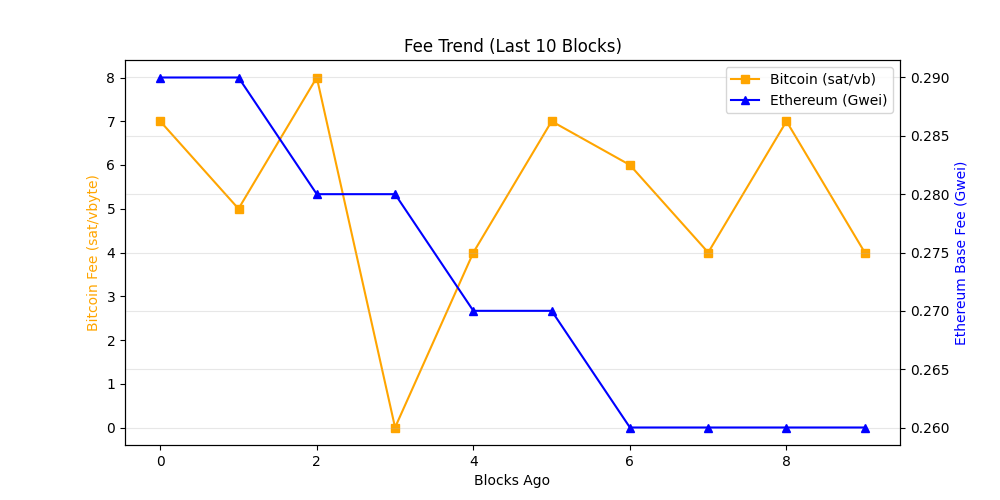
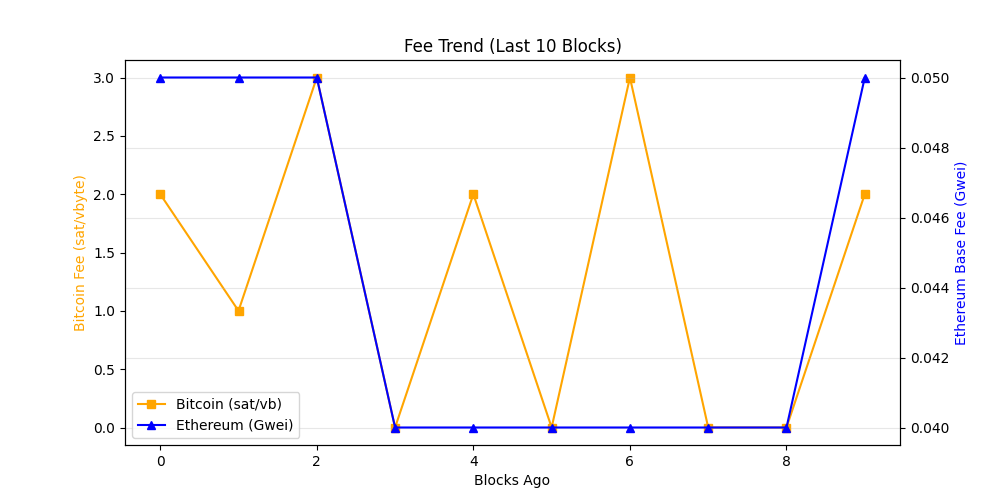
chore: update on-chain dashboard

diff --git a/README.md b/README.md
@@ -19,7 +19,7 @@ The README itself acts as the dashboard and is regenerated automatically on a 6 
 demonstrating a production-style, infrastructure-focused observability workflow rather
 than a traditional UI-driven approach.
 
-_Last updated: 2026-11-05 19:55 UTC_
+_Last updated: 2026-11-06 06:39 UTC_
 
 ## API Usage (GetBlock.io)
 - Calls used: **24**
@@ -27,8 +27,8 @@ _Last updated: 2026-11-05 19:55 UTC_
 ## Network Metrics
 | Chain | Block Height | TX Count | TPS (10 blk avg) | Block Util | Avg Fee |
 |------|-------------|----------|------------------|------------|---------|
-| Ethereum | 26350855 | 184 | 15.33 | 38.01% | 0.3 Gwei |
-| Bitcoin | 974700 | 3154 | 9.86 | 99.89% | N/A |
+| Ethereum | 26354071 | 240 | 20.0 | 61.67% | 0.1 Gwei |
+| Bitcoin | 974770 | 2962 | 2.51 | 99.8% | N/A |
 
 ## Visuals
 ### Transactions Trend
@@ -43,11 +43,11 @@ _Last updated: 2026-11-05 19:55 UTC_
 ## Whale Alerts (latest block)
 - Transaction hashes are truncated for readability.
 - Full hashes are available in `dashboards/metrics.json`
-- Bitcoin | 107.19 BTC | `da271a3d237c…`
-- Bitcoin | 107.19 BTC | `b1e70c13935b…`
-- Bitcoin | 527.94 BTC | `4aafd124aa40…`
-- Bitcoin | 448.52 BTC | `14d7b47a6461…`
-- Bitcoin | 265.05 BTC | `39c8b4b460f8…`
+- Bitcoin | 150.0 BTC | `54a50c70c025…`
+- Bitcoin | 1214.82 BTC | `94f4fdc16282…`
+- Bitcoin | 100.3 BTC | `6268c80d2506…`
+- Bitcoin | 110.62 BTC | `8c75e989f9f6…`
+- Bitcoin | 295.1 BTC | `352eabaab64d…`
 
 ## Run locally
 
